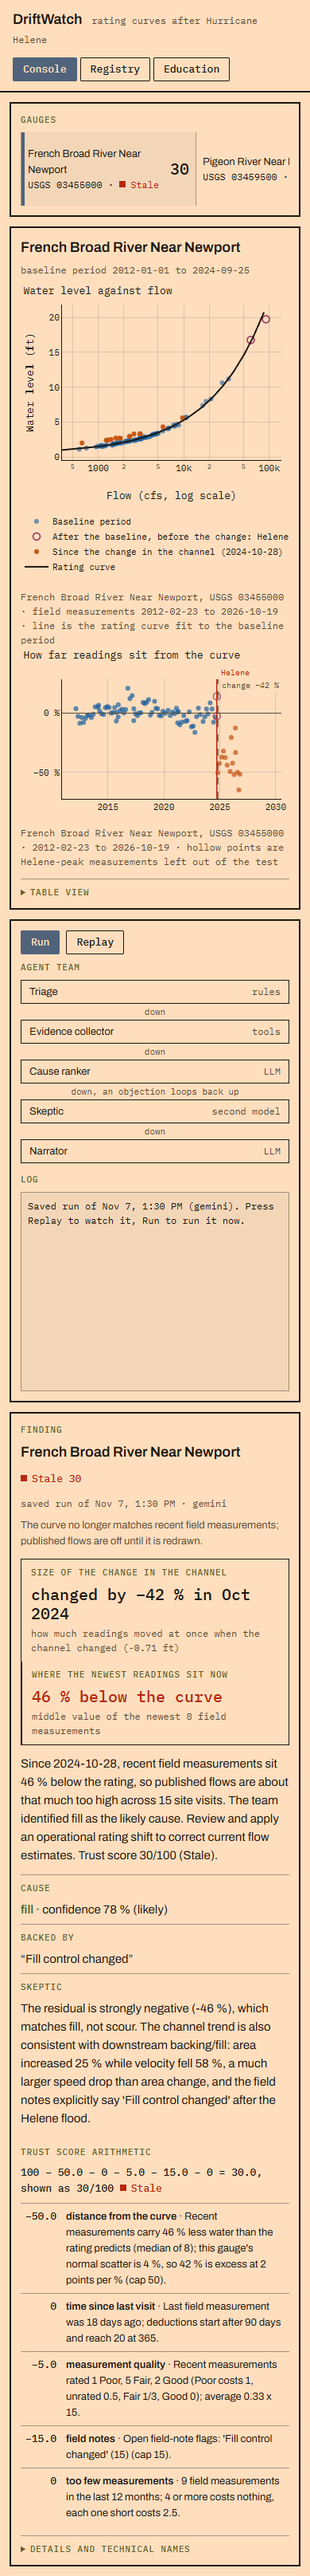
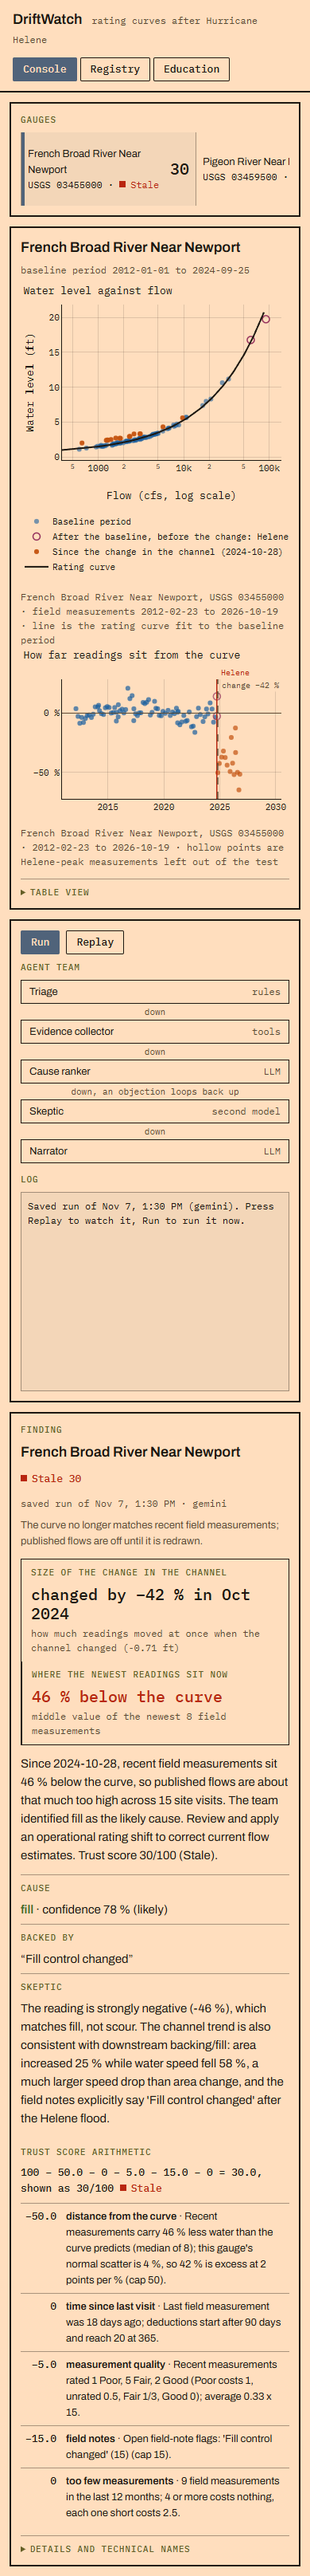
m3-design: plain words in model text on the card (display only)

Changed region(s): [[0.0615, 0.7738, 0.8923, 0.8357]]

diff --git a/driftwatch/api/console.html b/driftwatch/api/console.html
@@ -274,7 +274,22 @@ const conf = (c) => (c == null ? "[none]" : `${Math.round(c * 100)} %`);
 const roundPct = (s) => String(s ?? "").replace(/([+\-−]?)(\d+)\.\d+\s?%/g,
   (m, sg, n) => `${sg}${Math.round(Number(m.replace(/[^\d.]/g, "")))} %`);
 // interface copy carries no em dashes; model text gets a comma in their place
-const plain = (s) => roundPct(s).replace(/\s*—\s*/g, ", ");
+// C11.1 for model-written text: same words as the rest of the page (display only; traces untouched)
+const PLAIN_SWAPS = [
+  [/\b(?:a |the )?positive residual\b/gi, "readings above the curve"],
+  [/\b(?:a |the )?negative residual\b/gi, "readings below the curve"],
+  [/\bresiduals? (?:are |is )?positive\b/gi, "readings above the curve"],
+  [/\bresiduals? (?:are |is )?negative\b/gi, "readings below the curve"],
+  [/\b(?:recent |observed )?median residual\b/gi, "middle reading"],
+  [/\bresiduals\b/gi, "readings"],
+  [/\bresidual\b/gi, "reading"],
+  [/\bthe rating\b(?! curve)/gi, "the curve"],
+  [/\b(below|above) rating\b/gi, "$1 the curve"],
+  [/\bvelocity\b/gi, "water speed"],
+  [/[+−-](\d+ %) (below|above)\b/g, "$1 $2"],  // "-33 % below" says the sign twice
+];
+const plain = (s) => PLAIN_SWAPS.reduce((t, [re, to]) => t.replace(re, to),
+  roundPct(s).replace(/\s*—\s*/g, ", "));
 const shortName = (n) => (n || "").replace(/, (NC|TN)$/i, "").toLowerCase()
   .replace(/\b\w/g, (c) => c.toUpperCase()).replace(/\bNr\b/, "near");
 
